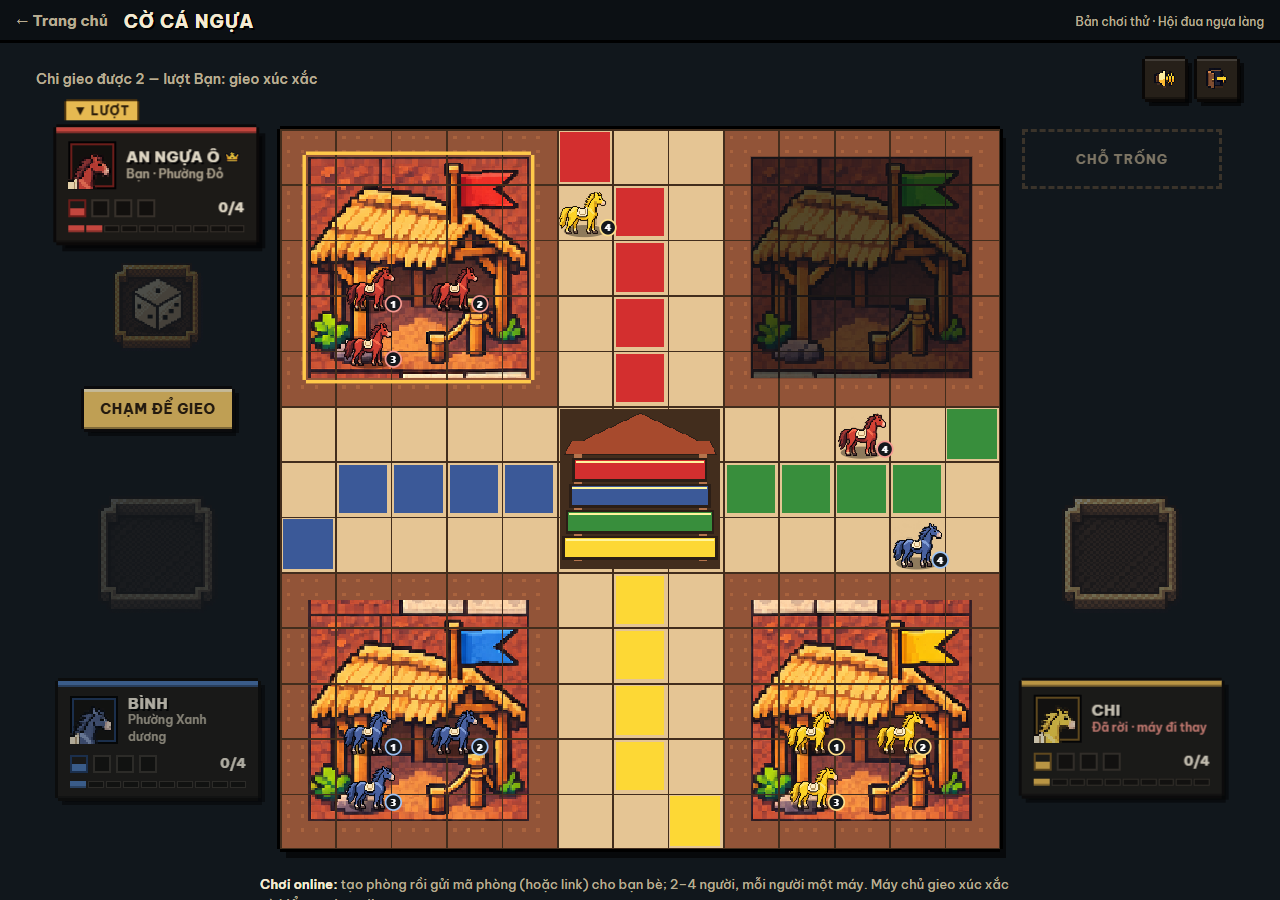
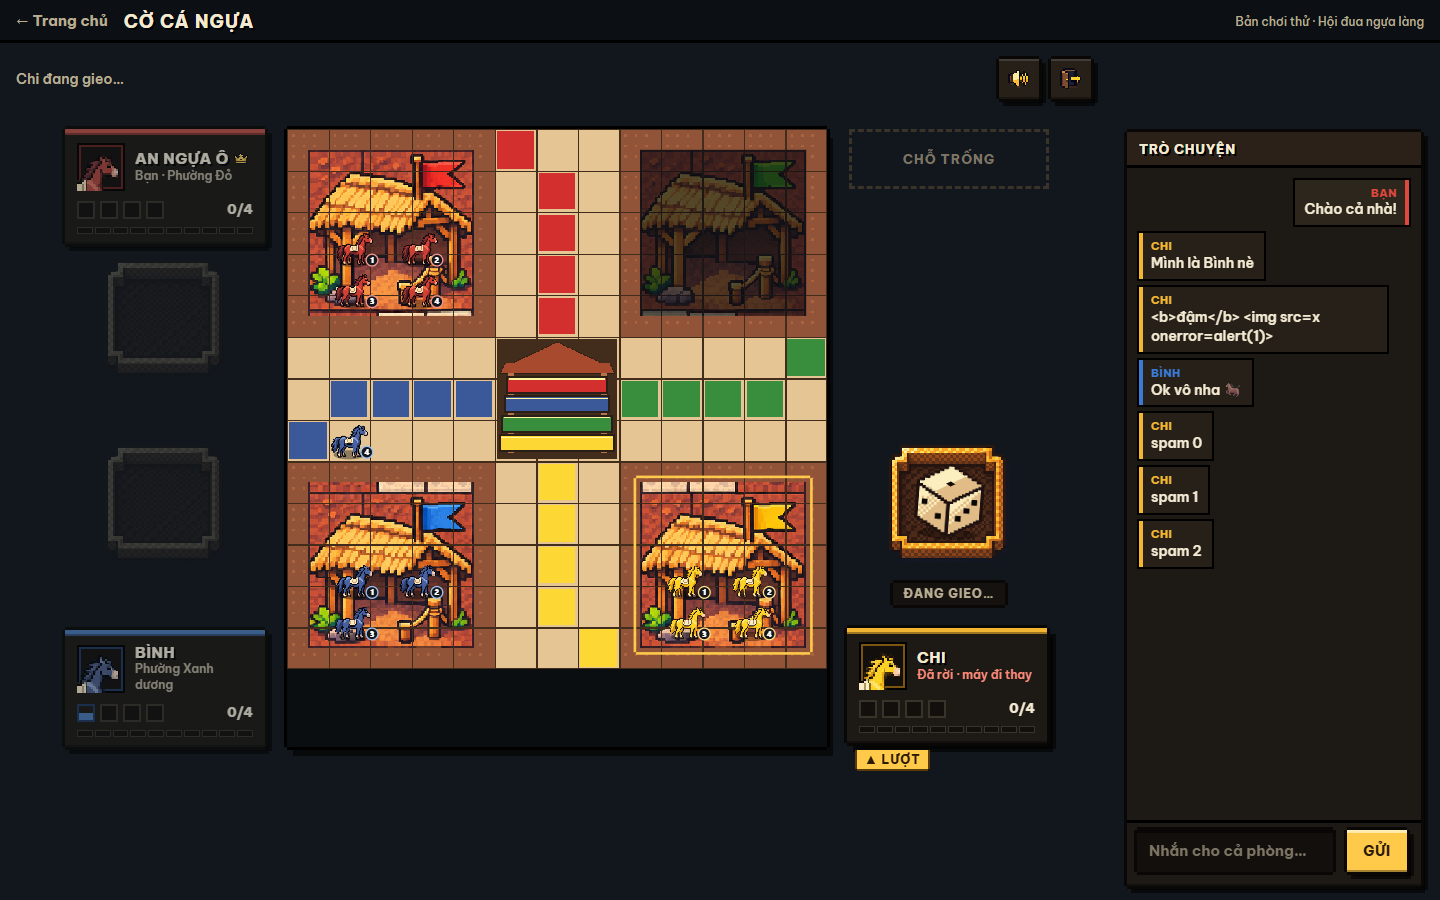
Cờ Cá Ngựa online: ô chat trong phòng (qua máy chủ, chống mạo danh/spam) + chốt chống sập server.js + bật mặc định
- Chat: máy chủ gắn tên người gửi theo token, làm sạch ký tự điều khiển, tối đa 200 ký tự, 4 tin liền rồi 0,7 tin/giây mỗi người, giữ 40 tin trong phòng.
- Giao diện: cột chat bên phải bàn (>=1360px); màn nhỏ hơn có nút Chat + số tin chưa đọc, bảng nổi/trượt từ dưới. Phím gõ trong ô chat không lọt xuống phím tắt bàn cờ.
- server.js: WebSocket tới đường không có game nhận (game đang tắt) bị ngắt đột ngột từng làm sập cả server -> nuốt lỗi socket + trả 404.
- COCANGUA_ONLINE mặc định bật (đã qua review Codex ở c9e909a); tắt bằng =0.
- Test: máy chủ 14/14, e2e 3 trình duyệt 50/50.

diff --git a/prototype/games/co-ca-ngua/online.js b/prototype/games/co-ca-ngua/online.js
@@ -22,7 +22,10 @@ const ERR = {
   loading: "Máy chủ đang khởi động, thử lại sau giây lát.",
   server: "Máy chủ gặp lỗi, thử lại.",
   bad: "Yêu cầu không hợp lệ.",
+  long: "Tin nhắn dài quá (tối đa 200 ký tự).",
+  "chat-slow": "Bạn nhắn nhanh quá — đợi một chút rồi gửi tiếp.",
 };
+const SEAT_HEX = ["#e0483d", "#3a7bd5", "#f2b632", "#3fae4a"]; // đỏ, xanh dương, vàng, xanh lá — trùng màu ghế trên bàn (hud.js)
 const OFFLINE = "Chưa kết nối được máy chủ chơi online (máy chủ chưa bật hoặc mạng có vấn đề). Bạn vẫn có thể chơi chung 1 máy.";
 
 function addCss() {
@@ -55,6 +58,7 @@ export function startOnline(stage, baseCtx, { wsUrl } = {}) {
   function showEntry(err = "", code = "") {
     stopNet();
     if (inst) { inst.destroy(); inst = null; }
+    chatOff();
     hideToast();
     const name = localStorage.getItem(NAME_KEY) || "";
     const invite = CODE_RE.test(code);
@@ -106,7 +110,7 @@ export function startOnline(stage, baseCtx, { wsUrl } = {}) {
   }
 
   function startLocal() {
-    stopNet(); saveSeat(null); setRoomParam("");
+    stopNet(); saveSeat(null); setRoomParam(""); chatOff();
     stage.innerHTML = "";
     inst = mount(stage, { ...baseCtx, lobby: true });
     window.__game = inst;
@@ -117,7 +121,80 @@ export function startOnline(stage, baseCtx, { wsUrl } = {}) {
     clearTimeout(retryTimer); clearInterval(pingTimer); retryTimer = pingTimer = 0;
     if (ws) { const w = ws; ws = null; w.onclose = w.onmessage = w.onerror = null; try { w.close(1000); } catch {} }
   }
-  function send(o) { if (ws && ws.readyState === 1) ws.send(JSON.stringify(o)); else toast("Đang nối lại máy chủ…"); }
+  function send(o) { if (ws && ws.readyState === 1) { ws.send(JSON.stringify(o)); return true; } toast("Đang nối lại máy chủ…"); return false; }
+
+  // ---------- Trò chuyện trong phòng (đi qua máy chủ; tên người gửi do máy chủ gắn theo ghế, client không tự khai) ----------
+  // Máy rộng: cột bên phải bàn chơi. Màn hẹp hơn: nút "Chat" (có số tin chưa đọc) mở bảng nổi / trượt từ dưới lên.
+  let chatEl = null, chatBtn = null, chatSeen = 0, chatLast = -1, lastView = null;
+  const wide = () => matchMedia("(min-width: 1360px) and (min-aspect-ratio: 1/1)").matches;
+  const chatVisible = () => !!chatEl && (wide() || document.body.classList.contains("cn-chat-open"));
+  function chatOn() {
+    if (chatEl) return;
+    chatEl = document.createElement("aside");
+    chatEl.className = "cn-table cn-chat"; chatEl.setAttribute("aria-label", "Trò chuyện trong phòng");
+    chatEl.innerHTML = `
+      <div class="px-panel cn-chat-box">
+        <div class="hd"><h2 class="px-h">Trò chuyện</h2><button class="px-btn seg" data-c="close" type="button">Đóng</button></div>
+        <ol class="log" aria-live="polite"></ol>
+        <form class="f" autocomplete="off"><input class="px-input" maxlength="200" placeholder="Nhắn cho cả phòng…" enterkeyhint="send" aria-label="Nội dung tin nhắn"><button class="px-btn primary" type="submit">Gửi</button></form>
+      </div>`;
+    stage.after(chatEl);
+    document.body.classList.add("cn-chat-on");
+    const input = chatEl.querySelector("input");
+    // phím gõ trong ô chat không được lọt xuống phím tắt của bàn cờ (Space = gieo, 1–4 = chọn ngựa…)
+    input.addEventListener("keydown", (e) => { e.stopPropagation(); if (e.key === "Escape") setChatOpen(false); });
+    input.addEventListener("keyup", (e) => e.stopPropagation());
+    chatEl.querySelector('[data-c="close"]').onclick = () => setChatOpen(false);
+    chatEl.querySelector("form").addEventListener("submit", (e) => {
+      e.preventDefault();
+      const text = input.value.trim(); if (!text) return;
+      if (send({ t: "chat", text })) input.value = "";
+    });
+    addChatBtn();
+  }
+  function addChatBtn() {
+    const tools = stage.querySelector(".cn-tools");
+    if (!tools || (chatBtn && chatBtn.isConnected)) return;
+    chatBtn = document.createElement("button");
+    chatBtn.type = "button"; chatBtn.className = "px-btn cn-chat-btn"; chatBtn.setAttribute("aria-label", "Trò chuyện");
+    chatBtn.innerHTML = 'Chat<span class="n" hidden></span>';
+    chatBtn.onclick = () => setChatOpen(!document.body.classList.contains("cn-chat-open"));
+    tools.prepend(chatBtn);
+  }
+  function chatOff() {
+    if (chatEl) chatEl.remove();
+    chatEl = null; chatBtn = null; chatSeen = 0; chatLast = -1; lastView = null;
+    document.body.classList.remove("cn-chat-on", "cn-chat-open");
+  }
+  function setChatOpen(on) {
+    if (!chatEl) return;
+    document.body.classList.toggle("cn-chat-open", on);
+    if (on) { hideToast(); if (lastView) renderChat(lastView); const log = chatEl.querySelector(".log"); log.scrollTop = log.scrollHeight; chatEl.querySelector("input").focus({ preventScroll: true }); }
+    else if (chatBtn) chatBtn.focus({ preventScroll: true });
+  }
+  function renderChat(v) {
+    chatOn(); addChatBtn(); lastView = v;
+    const log = chatEl.querySelector(".log"), list = v.chat || [], top = list.length ? list[list.length - 1].id : 0;
+    if (top !== chatLast) {
+      const atEnd = log.scrollHeight - log.scrollTop - log.clientHeight < 40, isNew = chatLast >= 0 && top > chatLast;
+      chatLast = top;
+      log.replaceChildren(...(list.length ? list.map((c) => {
+        const li = document.createElement("li"), b = document.createElement("b");
+        const k = v.players.findIndex((p) => p.name === c.name), seatIx = k < 0 ? -1 : v.players[k].seat >= 0 ? v.players[k].seat : k;
+        if (c.mine) li.className = "mine";
+        if (seatIx >= 0) li.style.setProperty("--who", SEAT_HEX[seatIx % 4]);
+        b.textContent = c.mine ? "Bạn" : c.name; li.append(b, document.createTextNode(c.text));
+        return li;
+      }) : [Object.assign(document.createElement("li"), { className: "empty", textContent: "Chưa có tin nhắn. Chào cả phòng một câu nhé!" })]));
+      if (atEnd || list.at(-1)?.mine) log.scrollTop = log.scrollHeight;
+      const last = list.at(-1);
+      if (isNew && last && !last.mine && !chatVisible()) toast(last.name + ": " + last.text, 3500);
+    }
+    if (chatVisible()) chatSeen = top;
+    const unread = list.filter((c) => c.id > chatSeen && !c.mine).length, n = chatBtn && chatBtn.querySelector(".n");
+    if (n) { n.hidden = !unread; n.textContent = unread > 9 ? "9+" : String(unread); }
+  }
+  addEventListener("resize", () => { if (lastView) renderChat(lastView); });
 
   function connect() {
     stopNet();
@@ -150,7 +227,7 @@ export function startOnline(stage, baseCtx, { wsUrl } = {}) {
       if (!inst) { stage.innerHTML = ""; inst = mount(stage, { ...baseCtx, lobby: true, online: { send, leave } }); window.__game = inst; }
       return;
     }
-    if (m.t === "state") { if (inst) { m.v.skew = m.now - Date.now(); inst.netState(m.v); } return; }
+    if (m.t === "state") { if (inst) { m.v.skew = m.now - Date.now(); inst.netState(m.v); renderChat(m.v); } return; }
     if (m.t === "pong") return;
     if (m.t === "left") { saveSeat(null); setRoomParam(""); showEntry(); return; }
     if (m.t === "replaced") { saveSeat(null); showEntry("Bạn đã mở phòng này ở một tab khác — tab này đã thoát."); return; }
@@ -176,6 +253,7 @@ export function startOnline(stage, baseCtx, { wsUrl } = {}) {
   window.__net = {
     get ws() { return ws; }, get seat() { return seat; }, get joined() { return joinedOnce; },
     send, leave, drop() { if (ws) ws.close(); }, // drop: test giả lập rớt mạng
+    openChat: setChatOpen,
   };
 
   // ---------- Khởi động ----------

diff --git a/prototype/games/co-ca-ngua/online.css b/prototype/games/co-ca-ngua/online.css
@@ -30,3 +30,46 @@
   .cn-entry-wrap { padding-top: 6px; }
   .cn-entry .join { grid-template-columns: 1fr; }
 }
+
+/* ---------- Trò chuyện trong phòng online ---------- */
+/* Máy rộng (>=1360px): cột 300px bên phải bàn chơi, bàn tự thu nhỏ để chừa chỗ. */
+body.cn-chat-on main { max-width: 1600px; }
+.cn-chat { display: none; }
+.cn-chat-box { display: flex; flex-direction: column; height: 100%; min-height: 0; }
+.cn-chat .hd { flex: none; display: flex; align-items: center; justify-content: space-between; gap: 10px; padding: 10px 12px; background: #2b2118; box-shadow: inset 0 -3px 0 #000; }
+.cn-chat .hd .px-h { font-size: 13px; }
+.cn-chat .hd .px-btn { display: none; }
+.cn-chat .log { flex: 1; min-height: 0; overflow-y: auto; margin: 0; padding: 12px; list-style: none; display: flex; flex-direction: column; gap: 8px;
+  font-size: 14px; line-height: 1.35; overflow-wrap: anywhere; user-select: text; -webkit-user-select: text; }
+.cn-chat .log li { align-self: flex-start; max-width: 92%; padding: 6px 10px 6px 12px; background: var(--px-panel2); box-shadow: inset 4px 0 0 var(--who, #6d6150), 0 0 0 2px #000; }
+.cn-chat .log li b { display: block; font-size: 11px; font-weight: 800; letter-spacing: .04em; text-transform: uppercase; color: var(--who, var(--px-soft)); }
+.cn-chat .log li.mine { align-self: flex-end; background: #2c261d; box-shadow: inset -4px 0 0 var(--who, var(--px-gold)), 0 0 0 2px #000; padding: 6px 12px 6px 10px; }
+.cn-chat .log li.mine b { text-align: right; }
+.cn-chat .log .empty { align-self: center; background: none; box-shadow: none; color: var(--px-dim); font-size: 13px; text-align: center; }
+.cn-chat .f { flex: none; display: grid; grid-template-columns: minmax(0, 1fr) auto; gap: 14px; align-items: center; padding: 10px 14px 14px 10px; box-shadow: inset 0 3px 0 #000; }
+.cn-chat .f .px-input { min-height: 42px; font-size: 15px; }
+.cn-chat .f .px-btn { min-height: 42px; }
+.cn-chat-btn { position: relative; }
+.cn-chat-btn .n { position: absolute; right: -8px; top: -8px; min-width: 20px; height: 20px; padding: 0 4px; display: grid; place-items: center; font-size: 11px;
+  color: #2c1b05; background: var(--px-gold); box-shadow: 0 0 0 2px #000; }
+.cn-chat-btn .n[hidden] { display: none; }
+.cn-chat .px-btn[hidden] { display: none; }
+
+@media (min-width: 1360px) and (min-aspect-ratio: 1/1) {
+  body.cn-chat-on main { display: grid; grid-template-columns: minmax(0, 1fr) 300px; column-gap: 26px; align-items: start; }
+  body.cn-chat-on main > .help { grid-column: 1 / -1; }
+  body.cn-chat-on .cn-board { width: min(calc(100svh - 170px), calc(100vw - 900px), 720px); }
+  .cn-chat { display: block; position: sticky; top: 14px; height: min(calc(100svh - 110px), 760px); margin-top: 72px; padding: 3px; }
+  .cn-chat-btn { display: none !important; }
+}
+/* Màn hẹp hơn: nút Chat trên thanh công cụ; bấm mở bảng nổi góc phải (máy tính) / trượt từ dưới (điện thoại). */
+@media not all and (min-width: 1360px) and (min-aspect-ratio: 1/1) {
+  body.cn-chat-open .cn-chat { display: block; position: fixed; z-index: 45; right: 16px; bottom: 16px; width: min(360px, calc(100vw - 32px)); height: min(70svh, 480px); }
+  body.cn-chat-open .cn-chat .hd .px-btn { display: inline-flex; }
+  body.cn-chat-open .cn-toast { display: none; }
+}
+@media (max-width: 760px) {
+  body.cn-chat-open .cn-chat { left: 0; right: 0; bottom: 0; width: auto; height: min(62svh, 460px); padding: 3px 3px 0; }
+  .cn-chat-btn { padding: 8px 12px; }
+  .cn-toast { bottom: calc(22px + env(safe-area-inset-bottom)); pointer-events: none; }
+}

diff --git a/games-server/co-ca-ngua/chat.js b/games-server/co-ca-ngua/chat.js
@@ -1,0 +1,38 @@
+// Trò chuyện trong phòng — tin nhắn đi qua máy chủ rồi máy chủ phát lại cho mọi ghế (các máy không nói chuyện trực tiếp).
+// Người gửi do MÁY CHỦ xác định từ ghế của kết nối (token), client không tự khai tên/ghế → không giả danh được người khác.
+// Chặn spam: tối đa CHAT.maxLen ký tự / tin, mỗi người tối đa CHAT.burst tin liền nhau rồi CHAT.perSec tin/giây.
+// Chỉ giữ CHAT.keep tin gần nhất trong bộ nhớ của phòng — phòng đóng là mất, không lưu đâu cả.
+"use strict";
+
+const CHAT = { maxLen: 200, keep: 40, burst: 4, perSec: 0.7 };
+// ký tự điều khiển, ký tự vô hình / đảo chiều chữ (bidi) — dựng từ mã số để file không chứa ký tự vô hình
+const hex4 = (c) => "\\" + "u" + c.toString(16).padStart(4, "0");
+const BAD = new RegExp("[" + [[0, 0x1f], [0x7f, 0x9f], [0x200b, 0x200f], [0x2028, 0x202e], [0x2066, 0x2069], [0xfeff, 0xfeff]].map(([a, b]) => hex4(a) + "-" + hex4(b)).join("") + "]", "g");
+
+class Chat {
+  constructor(clock) { this.clock = clock; this.list = []; this.id = 0; this.buckets = new Map(); }
+
+  /** p: người gửi phía máy chủ ({ token, name }). Trả { ok } hoặc { err: "bad" | "long" | "chat-slow" }. */
+  post(p, raw) {
+    if (typeof raw !== "string" || raw.length > 2000) return { err: raw && raw.length > 2000 ? "long" : "bad" };
+    const text = raw.replace(BAD, " ").replace(/\s+/g, " ").trim();
+    if (!text) return { err: "bad" };
+    if ([...text].length > CHAT.maxLen) return { err: "long" };
+    const now = this.clock.now();
+    const b = this.buckets.get(p.token) || { n: CHAT.burst, at: now };
+    b.n = Math.min(CHAT.burst, b.n + ((now - b.at) / 1000) * CHAT.perSec); b.at = now;
+    this.buckets.set(p.token, b);
+    if (b.n < 1) return { err: "chat-slow" };
+    b.n -= 1;
+    this.list.push({ id: ++this.id, tok: p.token, name: p.name, text, at: now });
+    if (this.list.length > CHAT.keep) this.list.shift();
+    return { ok: true };
+  }
+
+  forget(token) { this.buckets.delete(token); }
+
+  /** Danh sách gửi cho người có token `me` — không chứa token của ai, chỉ đánh dấu tin của chính mình. */
+  view(me) { return this.list.map((c) => ({ id: c.id, name: c.name, text: c.text, at: c.at, mine: c.tok === me })); }
+}
+
+module.exports = { Chat, CHAT };

diff --git a/games-server/co-ca-ngua/room.js b/games-server/co-ca-ngua/room.js
@@ -3,6 +3,7 @@
 // Client chỉ gửi Ý ĐỊNH ("gieo", "đi ngựa số h"); máy chủ kiểm tra đúng người / đúng pha / nước hợp lệ,
 // tự gieo xúc xắc bằng crypto (không dùng RNG có seed của logic.js để không ai đoán trước được mặt xúc xắc).
 "use strict";
+const { Chat } = require("./chat");
 
 const MAX_PLAYERS = 4;
 const DEFAULT_TIMINGS = {
@@ -35,6 +36,7 @@ class Room {
     this.deadline = 0;
     this.timer = null;
     this.closed = false;
+    this.chat = new Chat(clock); // trò chuyện của phòng — sống cùng phòng
   }
 
   get hostSeat() { return this.players.findIndex((p) => !p.left); }
@@ -50,6 +52,7 @@ class Room {
 
   leave(i) {
     const p = this.players[i]; if (!p) return;
+    this.chat.forget(p.token);
     if (this.phase === "lobby") this.players.splice(i, 1);
     else { p.left = true; p.connected = false; p.token = null; }
     if (!this.players.some((x) => !x.left)) return this.close();
@@ -92,6 +95,11 @@ class Room {
         if (m.t === "roll") return this.doRoll() ? { ok: true } : { err: "phase" };
         if (!Number.isInteger(m.horse)) return { err: "bad" };
         return this.doMove(m.horse) ? { ok: true } : { err: "illegal" };
+      }
+      case "chat": { // người gửi = ghế i do máy chủ biết từ kết nối; client chỉ gửi nội dung
+        const r = this.chat.post(p, m.text);
+        if (r.ok) this.changed();
+        return r;
       }
       default: return { err: "bad" };
     }
@@ -169,6 +177,7 @@ class Room {
       code: this.code, phase: this.phase, rule: this.rule, you: i, host: this.hostSeat,
       gid: this.gid, seq: this.seq, act: this.lastAct, deadline: this.deadline,
       players: this.players.map((p, k) => ({ name: p.name, connected: p.connected, left: p.left, seat: g ? g.seats[k] : -1 })),
+      chat: this.chat.view(this.players[i]?.token),
       game: g && {
         players: g.players, seats: g.seats, rules: g.rules, turn: g.turn, phase: g.phase, dice: g.dice,
         moves: g.moves, horses: g.horses, winner: g.winner, rolls: g.rolls,

diff --git a/server.js b/server.js
@@ -56,6 +56,13 @@ function serveFile(file, req, res, st) {
   fs.stat(file, (err, s) => (err || !s.isFile() ? send(res, 404, "Not Found") : go(s)));
 }
 
+// Chốt an toàn WebSocket: kết nối tới đường không có game nào nhận (vd game online đang tắt) trước đây bị bỏ treo không có
+// handler lỗi — trình duyệt ngắt đột ngột (ECONNRESET) là sập CẢ server. Giờ: nuốt lỗi socket + trả 404 cho đường lạ.
+server.on("upgrade", (req, sock) => {
+  sock.on("error", () => {});
+  setImmediate(() => { if (!sock.destroyed && !sock.writableEnded && sock.bytesWritten === 0 && sock.writableLength === 0) sock.end("HTTP/1.1 404 Not Found\r\n\r\n"); });
+});
+
 // Máy chủ game online (WebSocket). Mặc định BẬT — không cần đặt biến môi trường nào trên Railway.
 // Muốn tắt riêng một game: đặt MASOI_ONLINE=0 hoặc NOITU_ONLINE=0.
 const on = (v, def) => (v === "0" ? false : v === "1" ? true : def);
@@ -72,8 +79,9 @@ if (on(process.env.NOITU_ONLINE, true)) {
   console.log("Nối Từ online: đường /ws/noi-tu");
 }
 
-// Cờ Cá Ngựa online (phòng 2–4 người qua WebSocket, máy chủ gieo xúc xắc + xác thực lượt) — CHỈ bật khi COCANGUA_ONLINE=1.
-if (process.env.COCANGUA_ONLINE === "1") {
+// Cờ Cá Ngựa online (phòng 2–4 người qua WebSocket, máy chủ gieo xúc xắc + xác thực lượt) — mặc định BẬT (đã qua review độc lập
+// của Codex); tắt bằng COCANGUA_ONLINE=0.
+if (on(process.env.COCANGUA_ONLINE, true)) {
   require("./games-server/co-ca-ngua/host").createCoCaNguaHost(server);
   console.log("Cờ Cá Ngựa online: đường /ws/co-ca-ngua");
 }

diff --git a/prototype/games/co-ca-ngua/README.md b/prototype/games/co-ca-ngua/README.md
@@ -42,7 +42,10 @@ game đọc `sdk.sound.muted`, core thật sẽ cấp giá trị này). Trình d
   lệch hoặc thiếu gói thì nhận nguyên trạng thái máy chủ.
 - Chủ phòng chọn luật + bấm Bắt đầu (≥ 2 người). Rớt mạng: tự nối lại, giữ ghế (token trong `sessionStorage`, mỗi tab một người);
   tải lại trang vẫn vào lại đúng ghế. Người có lượt im lặng 30 s / mất kết nối 8 s / đã rời → máy chủ đi thay.
-- File: `online.js` + `online.css` (màn vào phòng, kết nối), `game.js` (`ctx.online`, `netState`), `hud.js` (tên, chủ phòng, mất kết nối).
-- Bật máy chủ: biến môi trường `COCANGUA_ONLINE=1` (mặc định tắt). Chạy thử trên máy: `node games-server/co-ca-ngua/dev.js` → http://localhost:8767/games/co-ca-ngua/
-- Test: `node --test --test-concurrency=1 games-server/co-ca-ngua/test/*.test.mjs` (máy chủ, 12 test) ·
-  `PORT=8767 node prototype/games/co-ca-ngua/screenshots/online-e2e.mjs <thư mục>` (3 trình duyệt thật, 31 kiểm tra; cần dev.js đang chạy).
+- **Trò chuyện trong phòng**: mọi ghế đã vào phòng nhắn được cho cả phòng (phòng chờ lẫn trong ván). Tin đi qua máy chủ, máy chủ gắn tên người gửi
+  theo ghế (client không tự khai tên được), cắt ký tự điều khiển, tối đa 200 ký tự/tin, mỗi người 4 tin liền rồi ~0,7 tin/giây; chỉ giữ 40 tin gần nhất
+  trong bộ nhớ của phòng (mất khi phòng đóng). Máy rộng ≥ 1360px: cột bên phải bàn; nhỏ hơn: nút **Chat** (có số tin chưa đọc) mở bảng nổi / trượt từ dưới.
+- File: `online.js` + `online.css` (màn vào phòng, kết nối, ô chat), `game.js` (`ctx.online`, `netState`), `hud.js` (tên, chủ phòng, mất kết nối).
+- Máy chủ mặc định **bật** (đã qua review Codex); tắt bằng `COCANGUA_ONLINE=0`. Chạy thử trên máy: `node games-server/co-ca-ngua/dev.js` → http://localhost:8767/games/co-ca-ngua/
+- Test: `node --test --test-concurrency=1 games-server/co-ca-ngua/test/*.test.mjs` (máy chủ, 14 test) ·
+  `PORT=8767 node prototype/games/co-ca-ngua/screenshots/online-e2e.mjs <thư mục>` (3 trình duyệt thật, 50 kiểm tra gồm chat; cần dev.js đang chạy).

diff --git a/games-server/co-ca-ngua/README.md b/games-server/co-ca-ngua/README.md
@@ -1,12 +1,15 @@
 # Máy chủ Cờ Cá Ngựa online
 
-Phòng 2–4 người qua WebSocket `/ws/co-ca-ngua`, gắn vào `server.js` khi `COCANGUA_ONLINE=1` (mặc định **tắt**).
+Phòng 2–4 người qua WebSocket `/ws/co-ca-ngua`, gắn vào `server.js` — mặc định **bật**, tắt bằng `COCANGUA_ONLINE=0`.
 Độc lập với `games-server/ma-soi/` (ws.js là bản chép riêng, không dùng chung file).
 
 - `room.js` — luật lấy nguyên từ `prototype/games/co-ca-ngua/logic.js`; máy chủ tự gieo xúc xắc (`crypto.randomInt`), kiểm tra đúng ghế / đúng pha / nước hợp lệ,
   tự đi khi chỉ có nước bắt buộc (1,1 s), người có lượt im lặng (30 s), mất kết nối (8 s) hoặc đã rời (1,2 s).
 - `host.js` — mã phòng 5 ký tự, token 128 bit, nối lại (`resume`), giới hạn: 1 KB/khung, 12 tin nhắn liền rồi 5/giây, 16 kết nối + 3 phòng mỗi IP,
   phòng không còn ai kết nối bị xoá sau 5 phút. Sau proxy (Railway) đặt `COCANGUA_TRUST_PROXY=1` để lấy IP thật từ `X-Forwarded-For`.
-- Giao thức: client gửi `create{name}` / `join{code,name}` / `resume{code,token}` / `rule{rule}` / `start` / `again` / `roll` / `move{horse}` / `sync` / `leave` / `ping`;
+- `chat.js` — trò chuyện trong phòng: client gửi `chat{text}`, máy chủ lấy người gửi theo token của kết nối (không tin tên client gửi), làm sạch
+  (ký tự điều khiển/bidi → khoảng trắng, gộp khoảng trắng), từ chối rỗng (`bad`) / > 200 ký tự (`long`), mỗi người 4 tin liền rồi 0,7 tin/giây (`chat-slow`).
+  Giữ 40 tin gần nhất trong bộ nhớ phòng; `state.v.chat = [{id,name,text,at,mine}]` (không lộ token).
+- Giao thức: client gửi `create{name}` / `join{code,name}` / `resume{code,token}` / `rule{rule}` / `start` / `again` / `roll` / `move{horse}` / `chat{text}` / `sync` / `leave` / `ping`;
   máy chủ gửi `joined{code,token}`, `state{now,v}` (mỗi người một bản, có `gid`, `seq`, `act` để client phát lại), `err{code}`, `replaced`, `kicked`, `left`, `pong`.
 - Chạy thử: `node games-server/co-ca-ngua/dev.js` (PORT 8767). Test: `node --test --test-concurrency=1 games-server/co-ca-ngua/test/*.test.mjs`.
